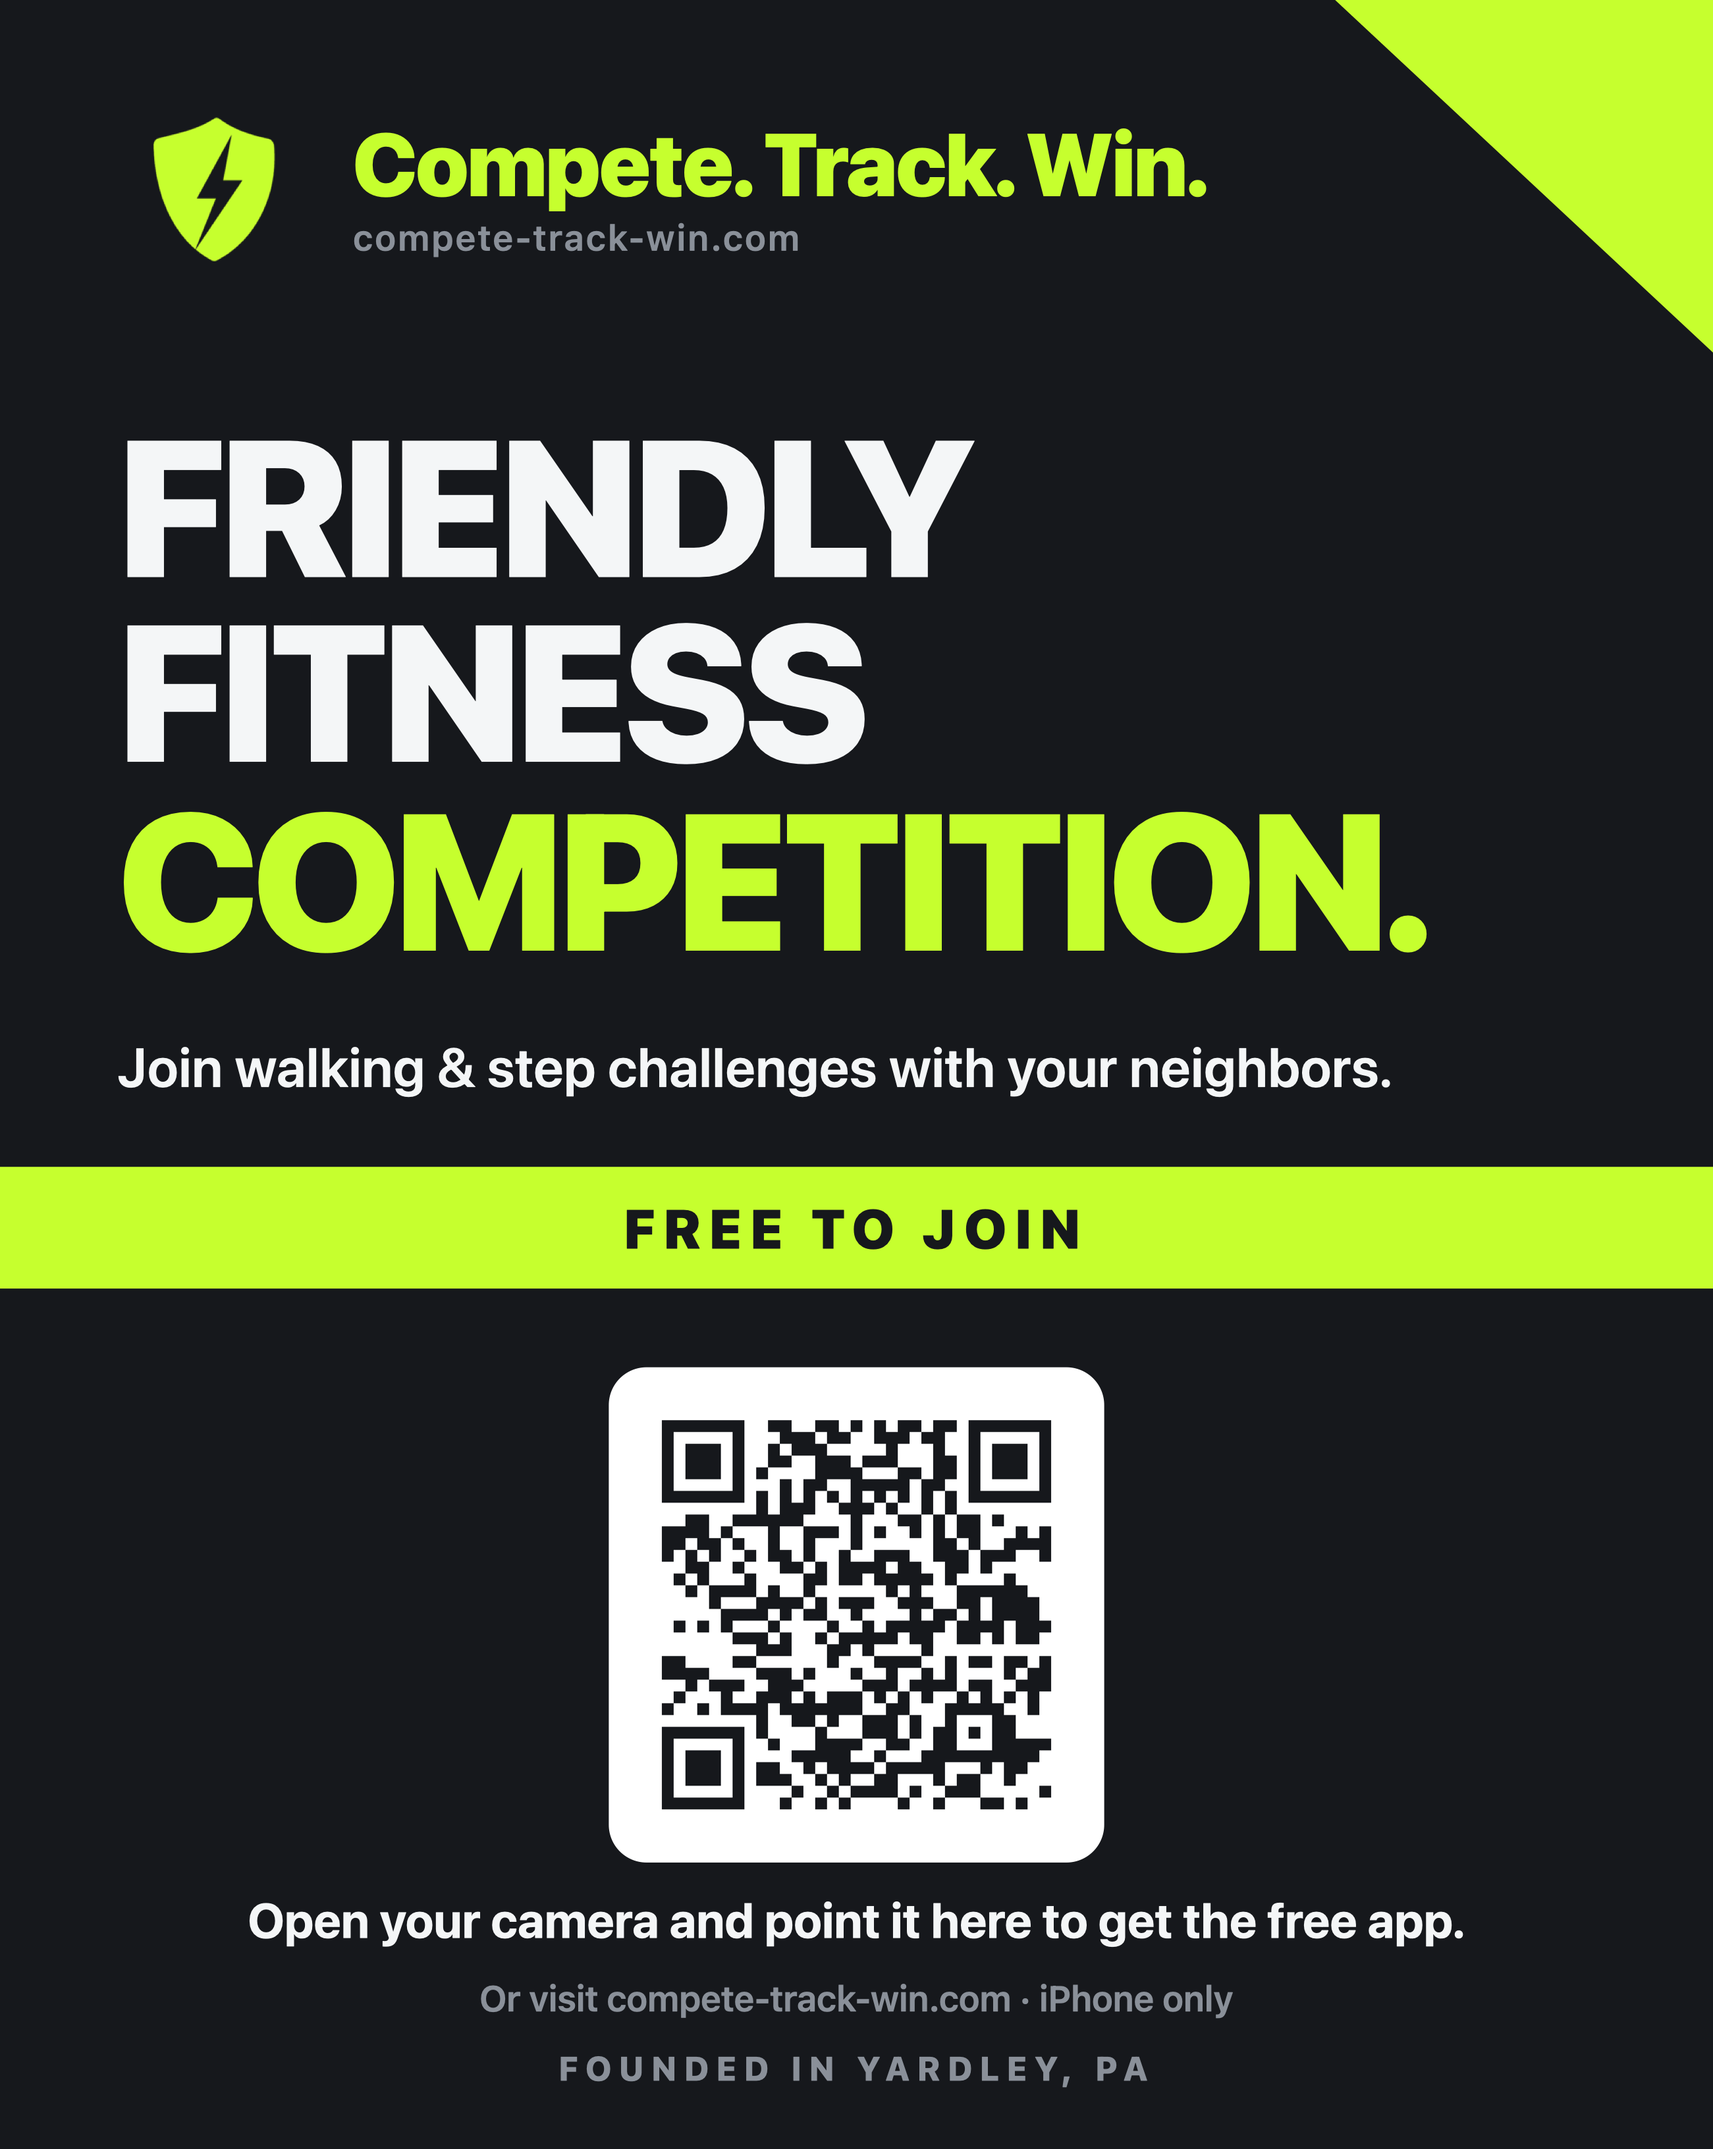
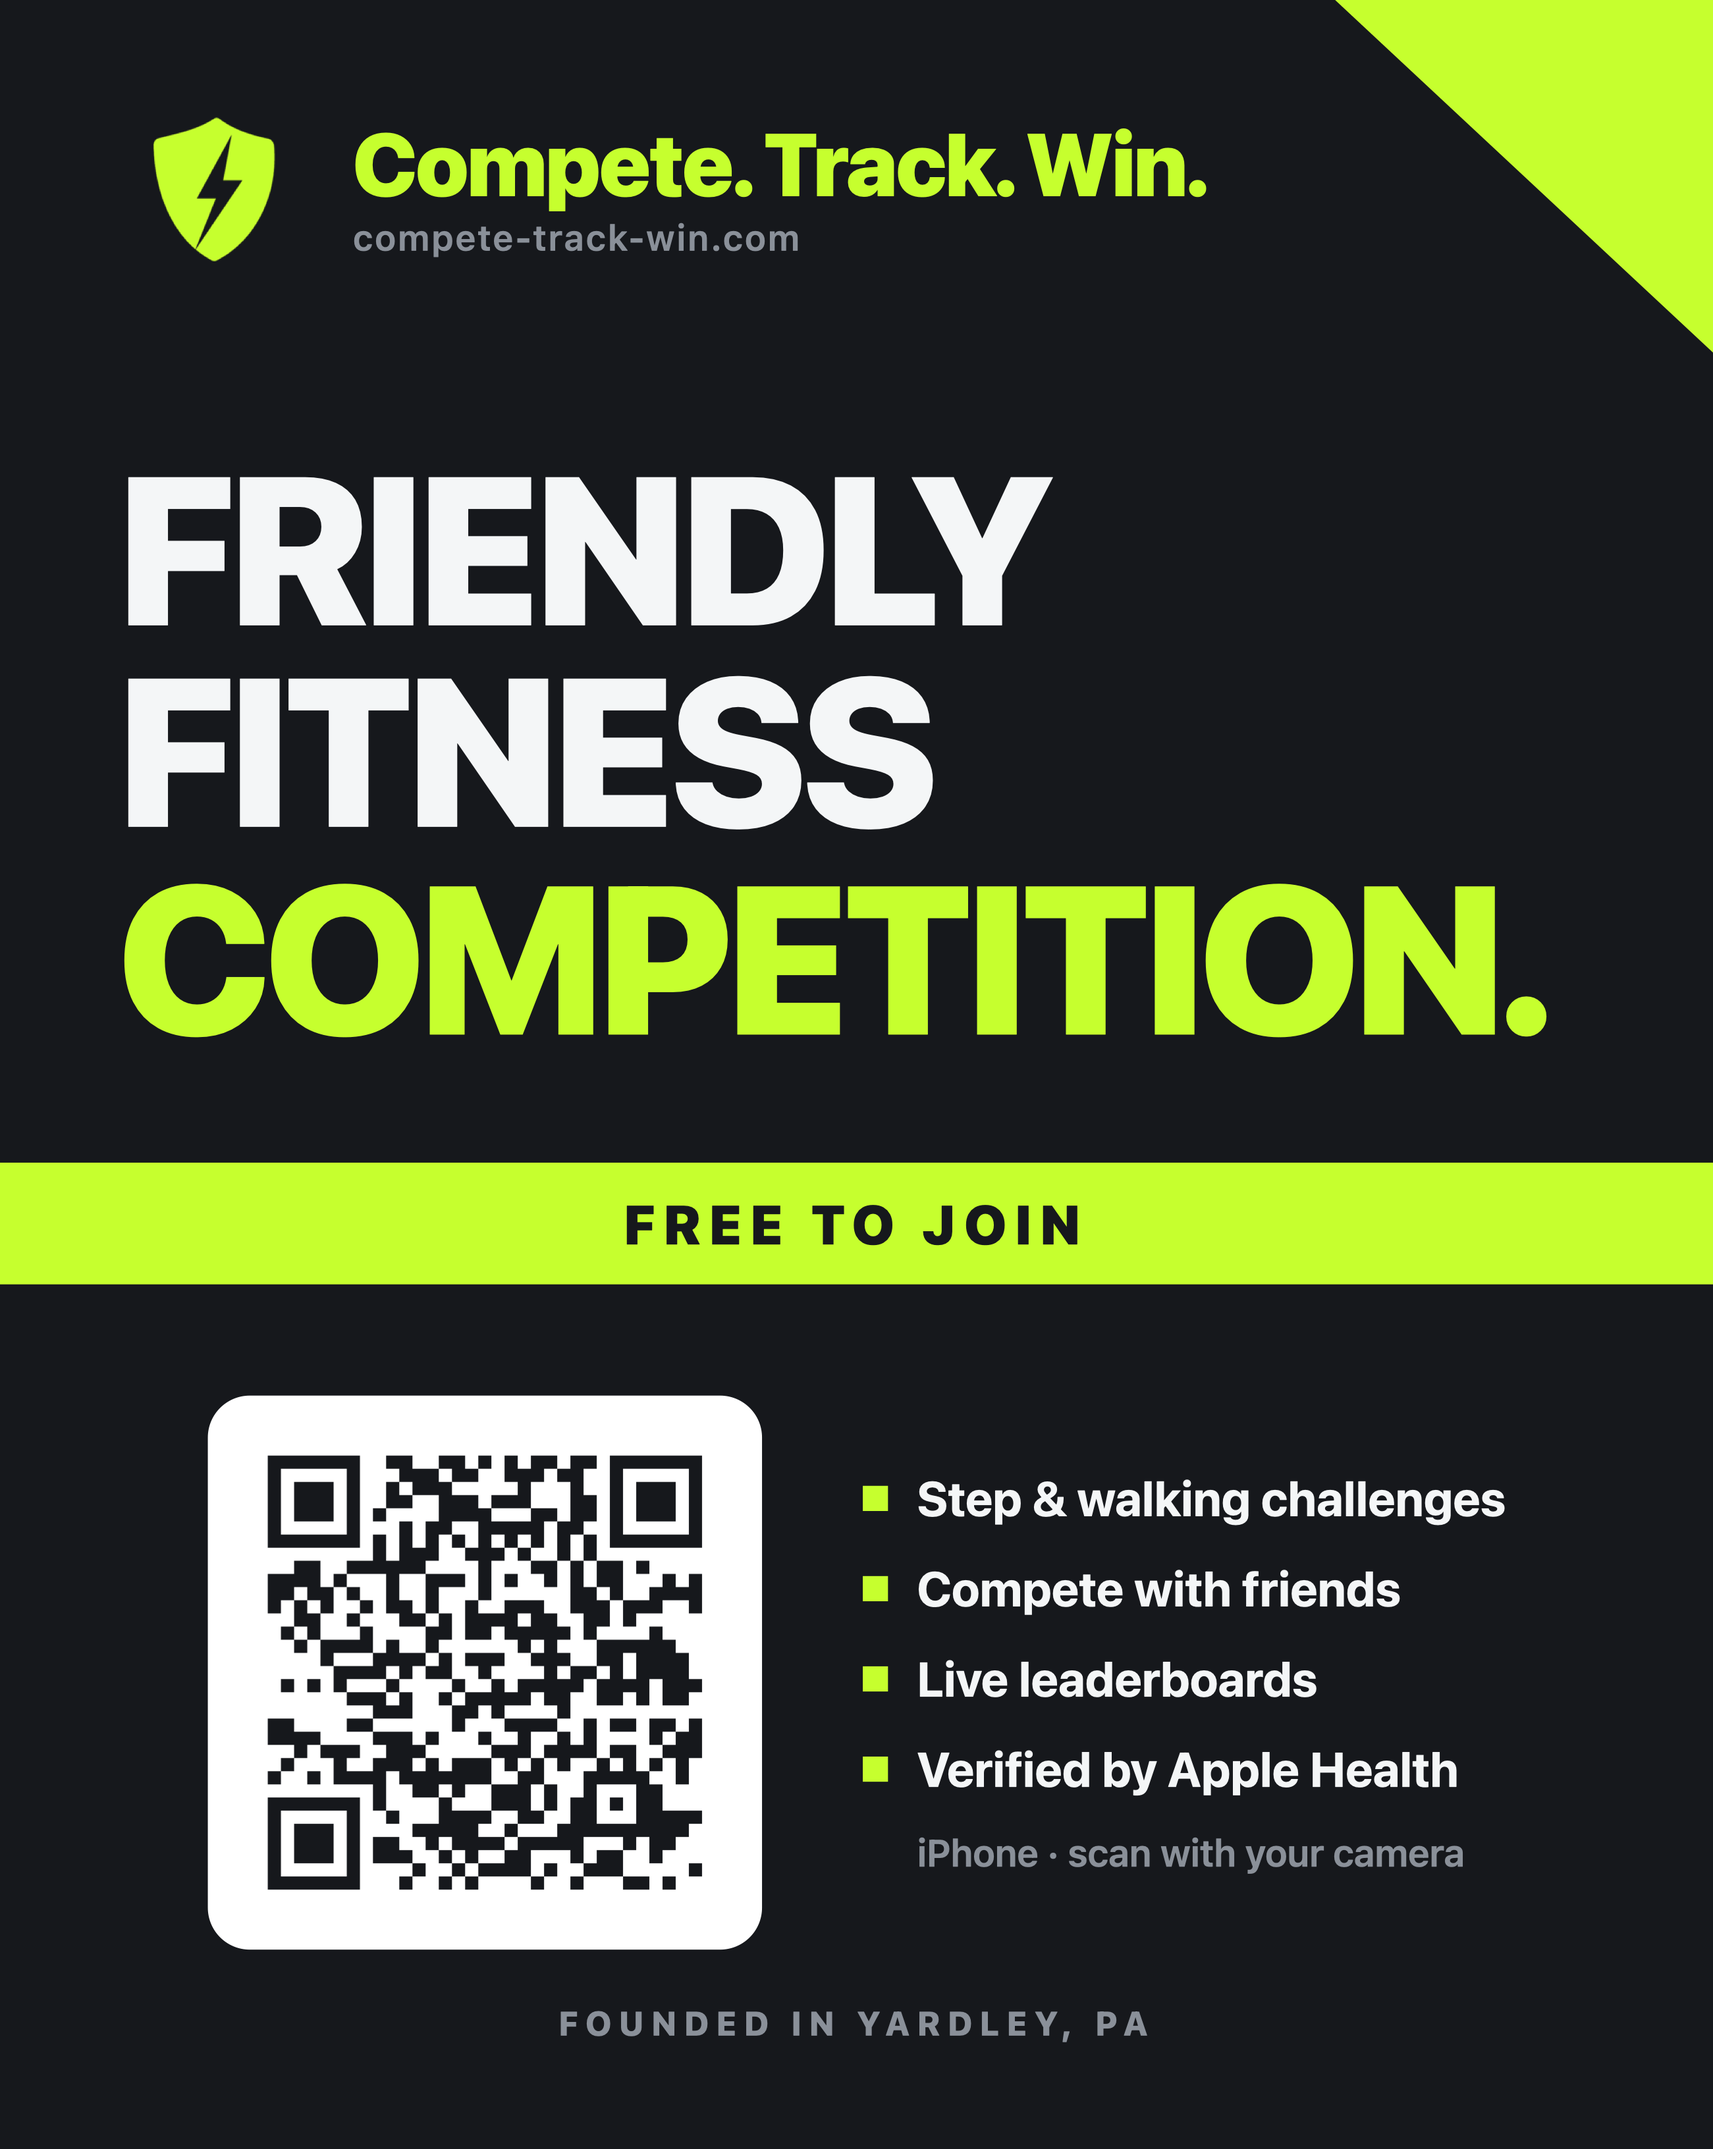
generic flyer v4: feature bullets beside QR, minimal bottom

diff --git a/print/beat-your-friends.html b/print/beat-your-friends.html
@@ -28,28 +28,30 @@
   </div>
 
   <!-- the hook -->
-  <div style="padding: 60px 56px 0 56px; position: relative;">
-    <div style="font-size: 92px; font-weight: 900; line-height: 0.96; letter-spacing: -3px; color: #F4F6F7;">FRIENDLY<br>FITNESS</div>
-    <div style="font-size: 92px; font-weight: 900; line-height: 1.02; letter-spacing: -3px; color: #C6FF2E; white-space: nowrap;">COMPETITION.</div>
-  </div>
-
-  <!-- one line of context -->
-  <div style="padding: 26px 56px 0 56px; position: relative;">
-    <div style="font-size: 26px; line-height: 1.35; color: #F4F6F7; font-weight: 600;">Join walking &amp; step challenges with your neighbors.</div>
+  <div style="padding: 76px 56px 0 56px; position: relative;">
+    <div style="font-size: 100px; font-weight: 900; line-height: 0.96; letter-spacing: -3px; color: #F4F6F7;">FRIENDLY<br>FITNESS</div>
+    <div style="font-size: 100px; font-weight: 900; line-height: 1.02; letter-spacing: -3px; color: #C6FF2E; white-space: nowrap;">COMPETITION.</div>
   </div>
 
   <!-- volt band -->
-  <div style="margin-top: 30px; background: #C6FF2E; color: #16181C; display: flex; justify-content: center; align-items: center; padding: 14px 0; position: relative;">
+  <div style="margin-top: 48px; background: #C6FF2E; color: #16181C; display: flex; justify-content: center; align-items: center; padding: 14px 0; position: relative;">
     <span style="font-size: 26px; font-weight: 900; letter-spacing: 4px;">FREE TO JOIN</span>
   </div>
 
-  <!-- QR centered -->
-  <div style="flex: 1; display: flex; flex-direction: column; align-items: center; justify-content: center; gap: 14px; padding: 0 56px 24px 56px; position: relative;">
-    <div style="background: #FFFFFF; border-radius: 18px; padding: 14px; display: flex; flex: none;">
[1 lines of base64/hex data omitted]
+  <!-- QR left, product features right -->
+  <div style="flex: 1; display: flex; flex-direction: column; align-items: center; justify-content: center; gap: 26px; padding: 0 56px 30px 56px; position: relative;">
+    <div style="display: flex; align-items: center; gap: 48px;">
+      <div style="background: #FFFFFF; border-radius: 20px; padding: 16px; display: flex; flex: none;">
[1 lines of base64/hex data omitted]
+      </div>
+      <div style="display: flex; flex-direction: column; gap: 16px;">
+        <div style="display: flex; align-items: center; gap: 14px;"><div style="width: 12px; height: 12px; background: #C6FF2E; flex: none;"></div><div style="font-size: 23px; font-weight: 700; color: #F4F6F7;">Step &amp; walking challenges</div></div>
+        <div style="display: flex; align-items: center; gap: 14px;"><div style="width: 12px; height: 12px; background: #C6FF2E; flex: none;"></div><div style="font-size: 23px; font-weight: 700; color: #F4F6F7;">Compete with friends</div></div>
+        <div style="display: flex; align-items: center; gap: 14px;"><div style="width: 12px; height: 12px; background: #C6FF2E; flex: none;"></div><div style="font-size: 23px; font-weight: 700; color: #F4F6F7;">Live leaderboards</div></div>
+        <div style="display: flex; align-items: center; gap: 14px;"><div style="width: 12px; height: 12px; background: #C6FF2E; flex: none;"></div><div style="font-size: 23px; font-weight: 700; color: #F4F6F7;">Verified by Apple Health</div></div>
+        <div style="display: flex; align-items: center; gap: 14px;"><div style="width: 12px; height: 12px; background: transparent; flex: none;"></div><div style="font-size: 18px; font-weight: 600; color: #8A9099;">iPhone &middot; scan with your camera</div></div>
+      </div>
     </div>
-    <div style="font-size: 23px; font-weight: 700; color: #F4F6F7; text-align: center;">Open your camera and point it here to get the free app.</div>
-    <div style="font-size: 17px; font-weight: 600; color: #8A9099; text-align: center;">Or visit compete-track-win.com &middot; iPhone only</div>
     <div style="font-size: 16px; font-weight: 800; letter-spacing: 3.5px; color: #8A9099; text-align: center; white-space: nowrap;">FOUNDED IN YARDLEY, PA</div>
   </div>
 </div>
